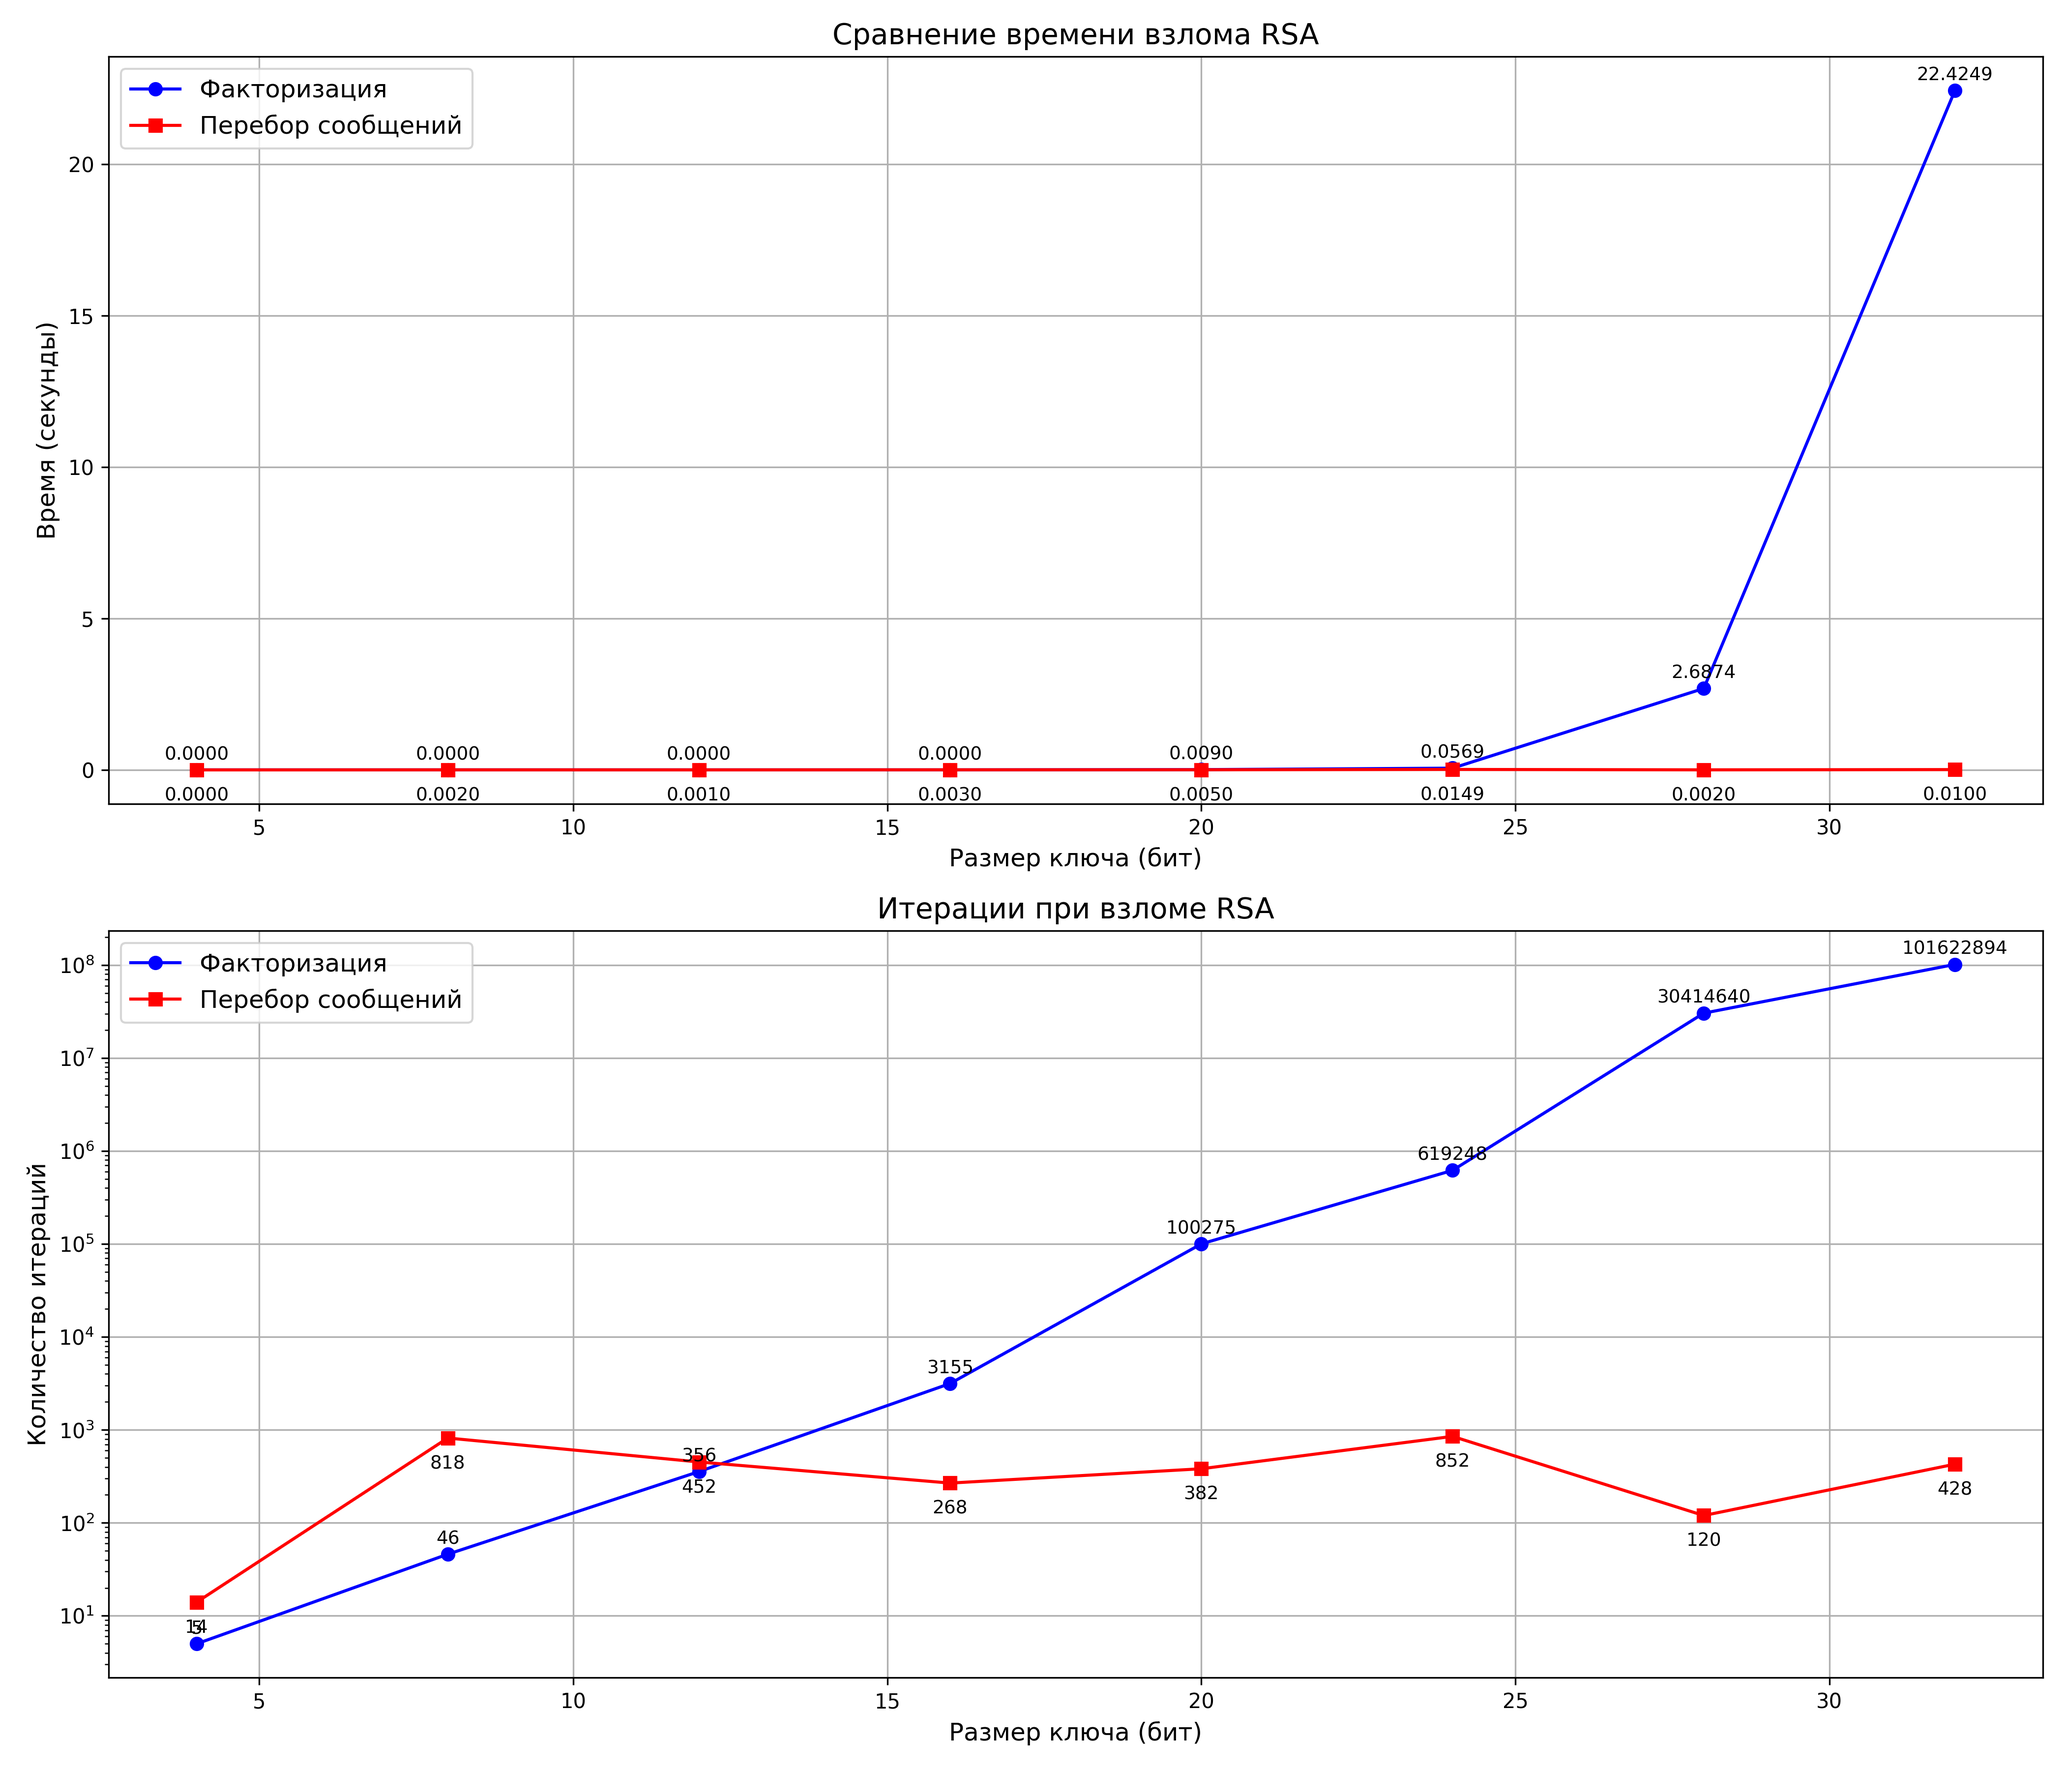
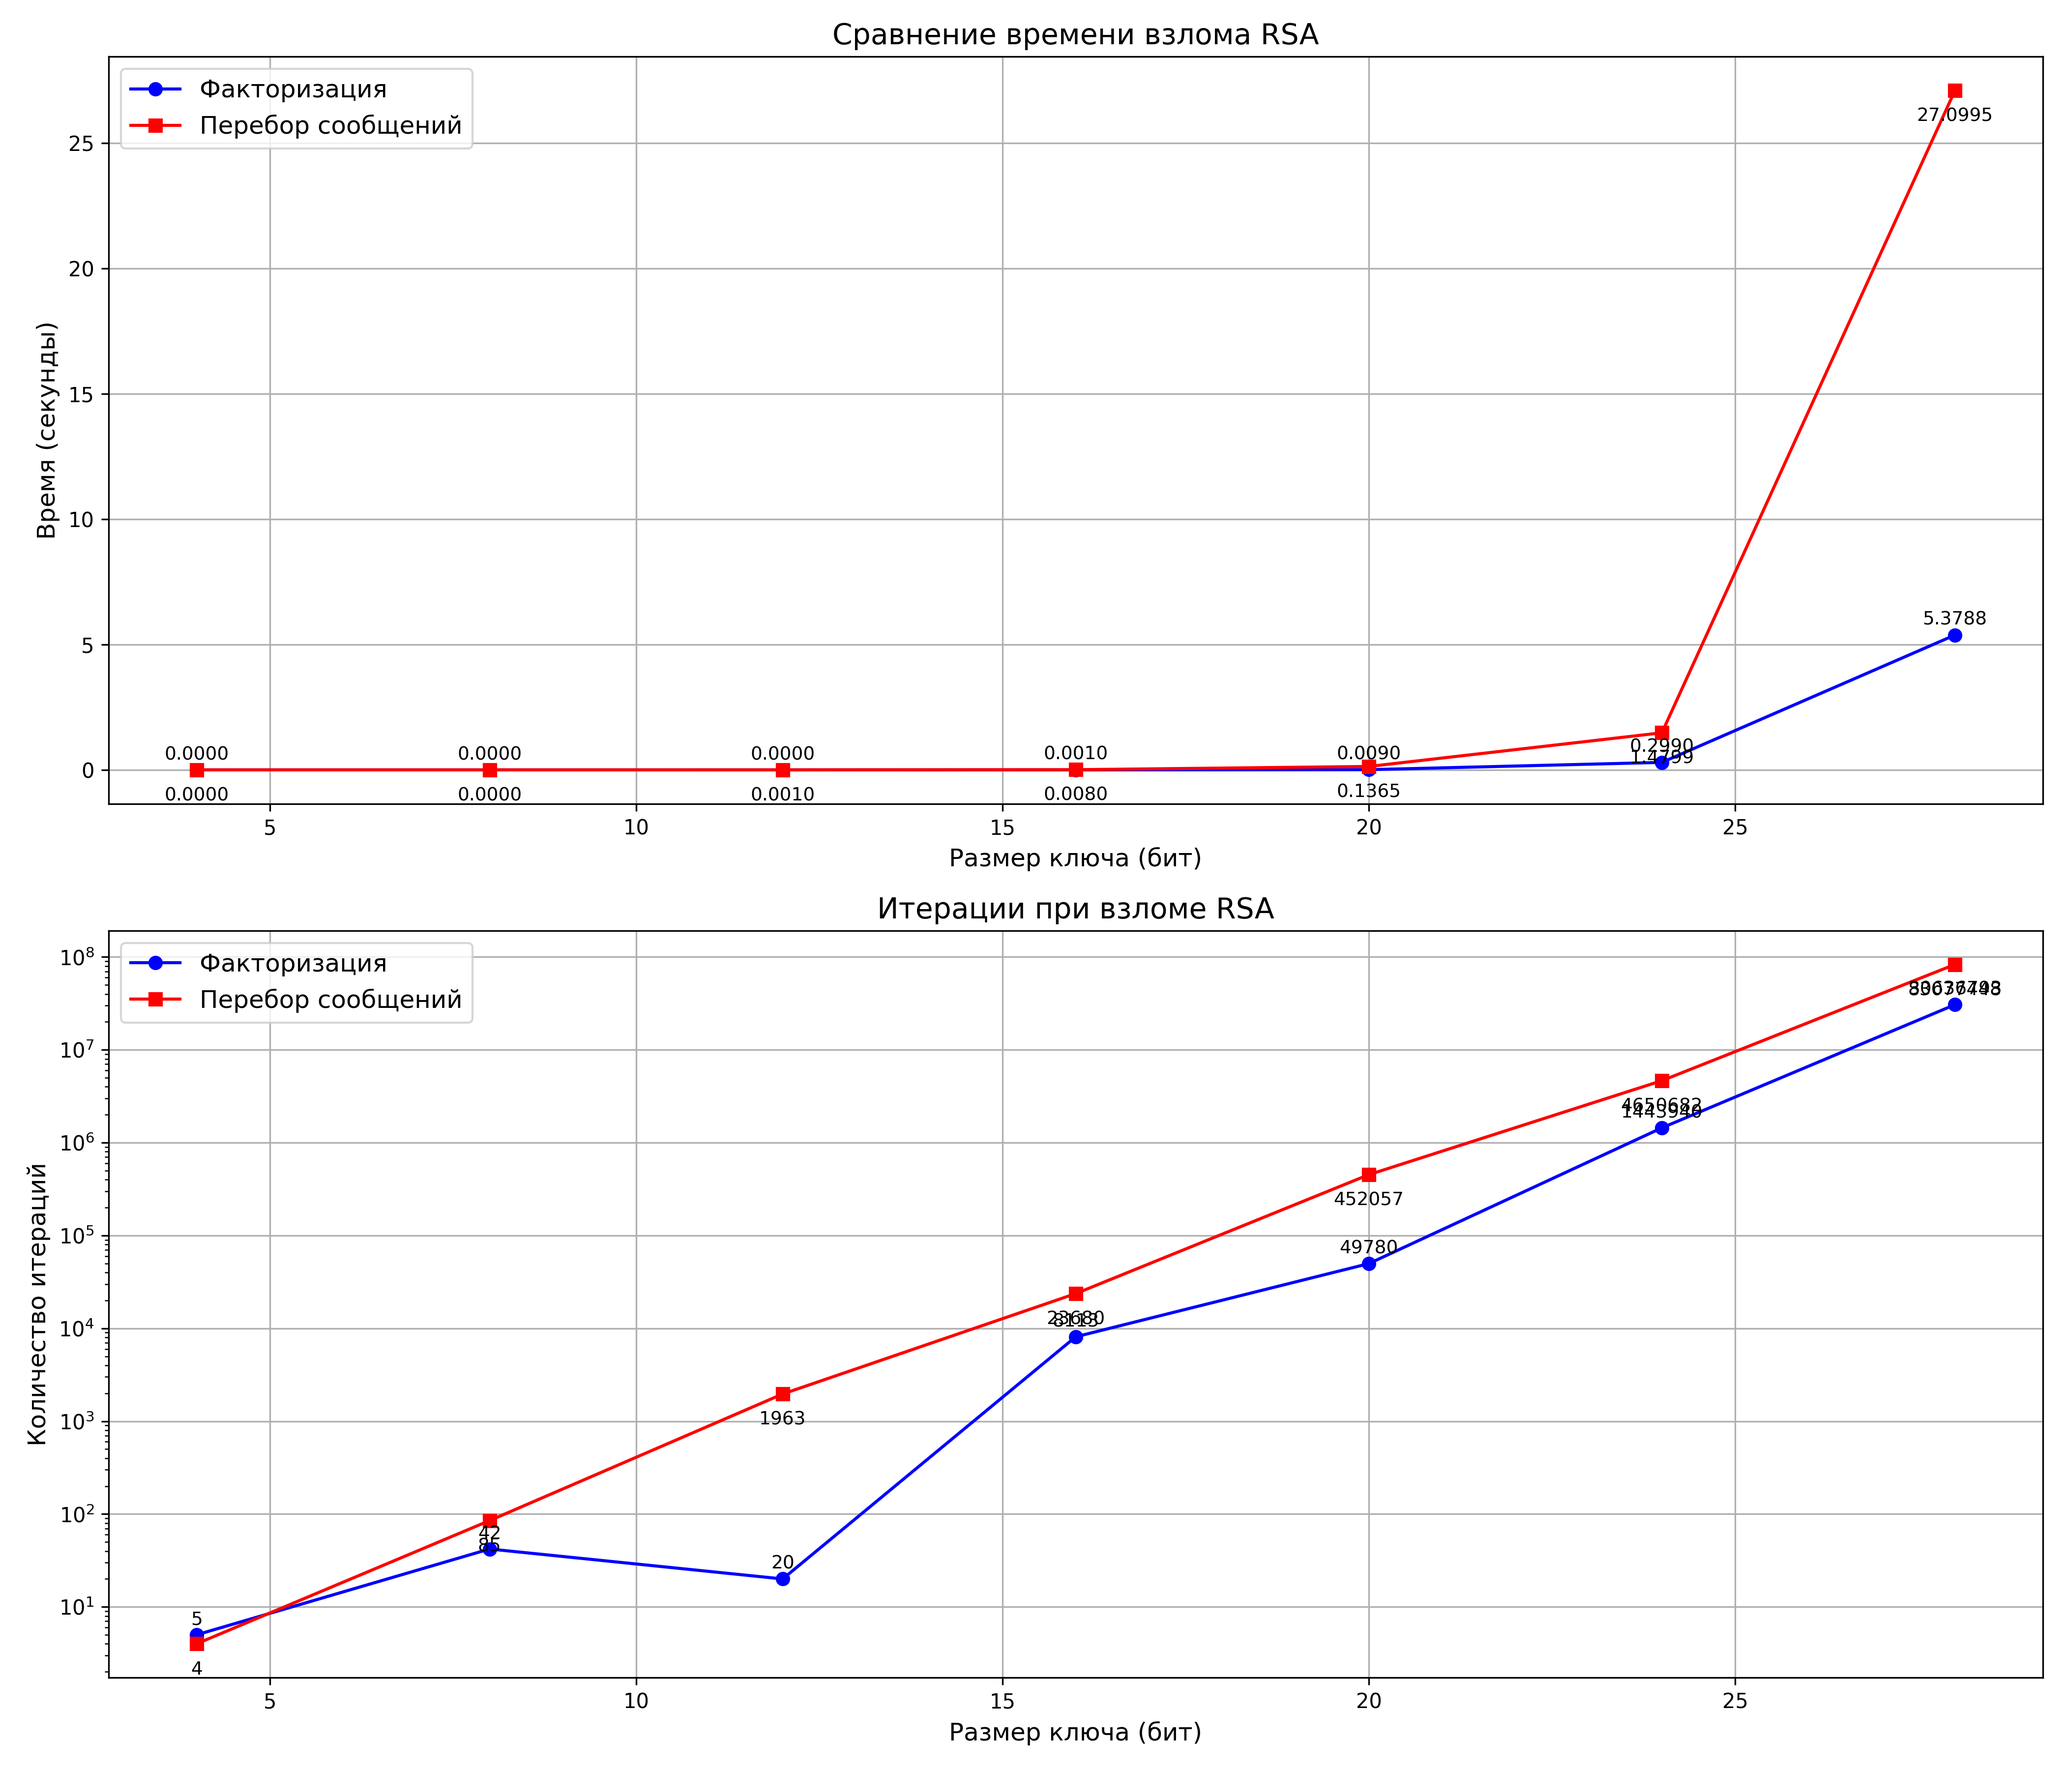
dev

diff --git a/rsa.py b/rsa.py
@@ -15,9 +15,17 @@ def generate_prime(n):
         if check_prime(p):
             return p
 
-def generate_keys(bits):
-    p = generate_prime(bits)
-    q = generate_prime(bits)
+
+def generate_keys(bits, p=None, q=None):
+    if p is None:
+        p = generate_prime(bits)
+    elif not check_prime(p):
+        return
+    if q is None:
+        q = generate_prime(bits)
+    elif not check_prime(q):
+        return
+
     while p == q:
         q = generate_prime(bits)
     n = p * q
@@ -30,81 +38,38 @@ def generate_keys(bits):
         e = random.randrange(1, phi)
         gcd, x, y = extended_gcd(e, phi)
 
-
     d = x % phi
 
     return (e, n), (d, n)
 
 
-# def generate_rsa_keys(bit_length):
-#     """Построение схемы RSA"""
-#     min_val = 2 ** (bit_length // 2 - 1)
-#     max_val = 2 ** (bit_length // 2)
-#     p = generate_prime(bit_length)
-#     q = generate_prime(bit_length)
-#
-#     # while True:
-#     #     p = random.randrange(min_val, max_val)
-#     #     if check_prime(p):
-#     #         break
-#     #
-#     # while True:
-#     #     q = random.randrange(min_val, max_val)
-#     #     if check_prime(q) and p != q:
-#     #         break
-#
-#     n = p * q
-#     phi = (p - 1) * (q - 1)
-#
-#     e = 65537
-#     if math.gcd(e, phi) != 1:
-#         e = 3
-#         while math.gcd(e, phi) != 1:
-#             e += 2
-#
-#     _, d, _ = extended_gcd(e, phi)
-#     d = d % phi
-#     if d < 0:
-#         d += phi
-#
-#     return (e, n), (d, n)
-
-
-
-
-# def encrypt(pk, plaintext):
-#     key, n = pk
-#     cipher = []
-#     for char in plaintext:
-#         cipher.append(mod_pow(ord(char), key) % n)
-#     return cipher
-
 def rsa_encrypt(message, public_key):
-
     e, n = public_key
     return mod_pow(message, e, n)
 
 
-def rsa_decrypt(ciphertext, private_key):
+def encrypt(plaintext, public_key):
+    key, n = public_key
+    cipher = [mod_pow(ord(char), key, n) for char in plaintext]
+    return cipher
 
+
+def decrypt(ciphertext, private_key):
+    key, n = private_key
+    plain = [chr(mod_pow(char, key, n)) for char in ciphertext]
+    return ''.join(plain)
+
+
+def rsa_decrypt(ciphertext, private_key):
     d, n = private_key
     return mod_pow(ciphertext, d, n)
 
 
-
-# def decrypt(pk, ciphertext):
-#     key, n = pk
-#     plain = []
-#     for char in ciphertext:
-#         plain.append(chr(fast_pow(char, key) % n))
-#     return ''.join(plain)
-
-
-# pub_key, private_key = generate_keys(10)
+# pub_key, priv_key = generate_keys(1024)
 # print('Публичный ключ: ' + str(pub_key[0]))
-# print('Секреный ключ: ' + str(private_key[0]))
-# in_text = 123
-# cipher = rsa_encrypt(in_text, pub_key)
+# print('Секреный ключ: ' + str(priv_key[0]))
+# in_text = input('Введите текскт: ')
+# cipher = encrypt(in_text, pub_key)
 # print(cipher)
-# print(rsa_decrypt(cipher, private_key))
+# print(decrypt(cipher, priv_key))
 

diff --git a/graph.py b/graph.py
@@ -1,12 +1,12 @@
 import time
 from rsa import generate_keys, rsa_encrypt, rsa_decrypt
 import random
-from fact_crack_rsa import crack_rsa_factorization
+from fact_crack_rsa import crack_rsa_factorization, trial_division
 from mess_crack_rsa import crack_rsa_message_brute
 from matplotlib import pyplot as plt
 
+
 def simulate_rsa_cracking(bit_lengths):
-    """Построение графиков и логирование результатов"""
     factor_times = []
     brute_times = []
     factor_iters = []
@@ -37,26 +37,15 @@ def simulate_rsa_cracking(bit_lengths):
         print(f"Найдены делители: p={p}, q={q}")
         print(f"Итераций: {f_iters}, Время: {factor_time:.4f} сек")
 
-        # 7. ВЗЛОМ МЕТОДОМ ПЕРЕБОРА СООБЩЕНИЙ
-        print("Запуск перебора сообщений...")
+        print("Запуск наивного алгоритма")
         start_time = time.time()
-        # Для больших ключей используем ограниченный перебор
-        max_attempts = min(10 ** 6, n) if bits > 16 else n
-        cracked_message, b_iters = crack_rsa_message_brute(
-            ciphertext,
-            e,
-            n,
-            max_attempts
-        )
-        brute_time = time.time() - start_time
-        brute_times.append(brute_time)
-        brute_iters.append(b_iters)
+        p, q, f_iters = trial_division(n)
+        factor_time = time.time() - start_time
+        brute_times.append(factor_time)
+        brute_iters.append(f_iters)
+        print(f"Найдены делители: p={p}, q={q}")
+        print(f"Итераций: {f_iters}, Время: {factor_time:.4f} сек")
         brute_bit_lengths.append(bits)
-        if cracked_message is not None:
-            print(f"Найдено сообщение: {cracked_message}")
-        else:
-            print("Сообщение не найдено (достигнут лимит попыток)")
-        print(f"Итераций: {b_iters}, Время: {brute_time:.4f} сек")
 
     # Построение графиков
     plt.figure(figsize=(14, 12))
@@ -131,5 +120,5 @@ def simulate_rsa_cracking(bit_lengths):
 
 if __name__ == "__main__":
     # Размеры ключей для тестирования
-    bit_lengths = [i * 4 for i in range(1, 9)]
+    bit_lengths = [i * 4 for i in range(1, 8)]
     simulate_rsa_cracking(bit_lengths)

diff --git a/fact_crack_rsa.py b/fact_crack_rsa.py
@@ -5,6 +5,20 @@ from matplotlib import pyplot as plt
 import rsa
 from check_prime import check_prime
 
+
+def trial_division(n):
+    k = 0
+    if n % 2 == 0:
+        return 2
+    i = 3
+    while i * i <= n:
+        if n % i == 0:
+            return i, n // i, k
+        i += 2
+        k += 1
+    return n, None, None
+
+
 def crack_rsa_factorization(n):
     iterations = 0
 
@@ -27,4 +41,14 @@ def crack_rsa_factorization(n):
     return None, None, iterations
 
 
+# pub_key, private_key = rsa.generate_keys(10)
+# print('Публичный ключ: ' + str(pub_key[0]))
+# print('Секреный ключ: ' + str(private_key[0]))
+# e, n = pub_key
+# p, q, k = trial_division(n)
+# # q = n // p
+# # p, q, f_iters = crack_rsa_factorization(n)
+# phi = (p - 1) * (q - 1)
+# d = pow(e, -1, phi)
+# print(d)
 

diff --git a/check_prime.py b/check_prime.py
@@ -1,13 +1,30 @@
 import random
 
 
+def trial_division(n):
+    k = 0
+    if n % 2 == 0:
+        return 2, n // 2, k
+    i = 3
+    while i * i <= n:
+        if n % i == 0:
+            return i, n // i, k
+        i += 2
+        k += 1
+    return n, None, None
+
+
 def check_prime(n, k=5):
     if n <= 1:
         return False
     elif n <= 3:
         return True
     elif n % 2 == 0:
-        return False
+        return False, 2, n // 2
+
+    # p, q, cont = trial_division(n)
+    # if p != n:
+    #     return False, p, q
 
     d = n - 1
     s = 0
@@ -26,7 +43,9 @@ def check_prime(n, k=5):
                 break
         else:
             return False
+
     return True
 
-# print(check_prime(1999889))
+
+# print(check_prime(667))
 
